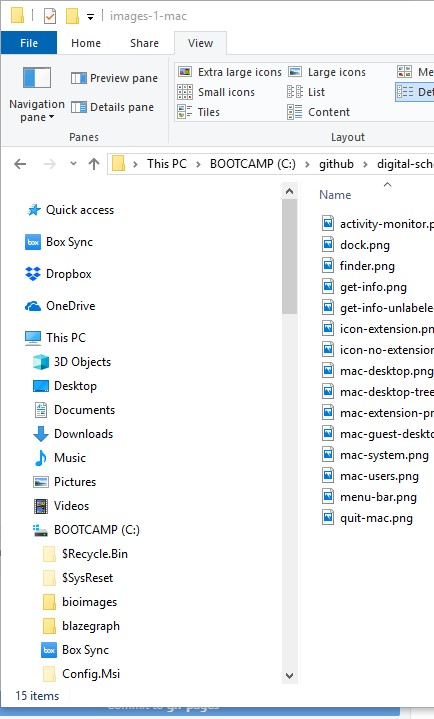
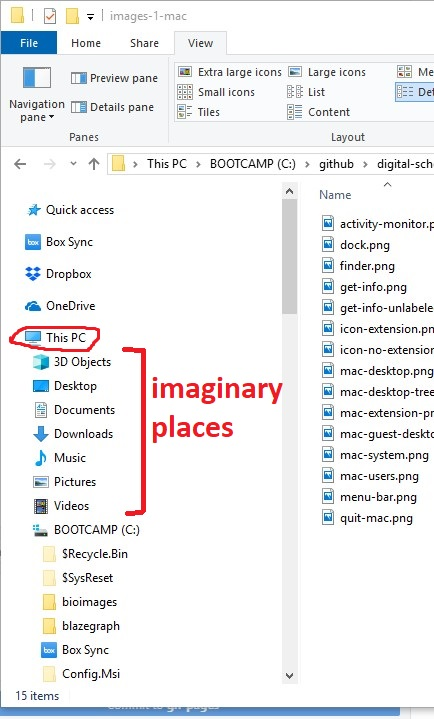
finish edits to windows directories lesson

Changed region(s): [[0.2696, 0.459, 0.659, 0.7344], [0.0, 0.4284, 0.2396, 0.4896], [0.0599, 0.3672, 0.0899, 0.3978]]

diff --git a/computer/directories-windows.md b/computer/directories-windows.md
@@ -111,89 +111,87 @@ Any of these items can be expanded or collapsed by clicking on the arrow to the 
 
 After you have gone down into deeper subdirectories of the directory tree, you can go back up the tree in two ways.  You can click the back button (left-facing arrow at the upper left) and it will return you to previous directories you have viewed.  You can also jump to any higher level in the path by single-clicking on a folder in the path bar.
 
-***********
-
 ## Exploring the entire directory tree
 
-<img src="../images-2-mac/finder-entire-directory-tree.png" style="border:1px solid black">
+<img src="../images-2-pc/navigate-to-documents.png" style="border:1px solid black">
 
-If you included your computer in the sidebar, click on it and select columns view.  If your computer isn't in the sidebar, drop down the Finder `Go` menu and select `Computer`. Starting on the level of your whole computer, you can dive down into the directory, starting with the root directory in your hard drive (probably named `macOS`), to the `users` directory, then to your home folder, and finally to your `Documents` folder.
+In File Explorer, make sure that the navigation pane is enabled and that you are using Details view.  Starting with `This PC`, dive deep into the directory tree.  Expand `This PC` if necessary, then the root directory your hard drive (probably named something but labeled as `C:`), to the `users` directory, then to your home folder, and finally to your `Documents` folder.
 
-<img src="../images-2-mac/documents-level.png" style="border:1px solid black">
+<img src="../images-2-pc/direct-to-documents.png" style="border:1px solid black">
 
-Now for contrast, click on the Documents favorite in the sidebar.  You will go directly to your Documents directory.  Although if you've enabled the Show Path Bar, you'll know where you are in the directory tree, and you can easily jump to a higher level than the one you chose from the sidebar Favorites by simply double-clicking on the higher level in the path bar.  This feature is useful if you start exploring at a low level in the directory tree but later realize that you need to jump up to a higher level.
+You should be able to see your path to the Documents folder in the Path box under the ribbon.
+
+Now for contrast, click on the Documents folder directly under `This PC`.  This will take you directly to your Documents directory.  You should see the same files that you saw when you navigated to your Documents directory through the C: drive.  If you look at the Path box, you'll see that Windows is continuing the charade of pretending that your Documents folder is directly connected to your computer separately from the directory tree.
 
 # Save file dialog
 
-As a relatively new Mac user, I was somewhat horrified to discover the large number of users who seem to mostly save documents to their desktop instead of in some organized place in the directory tree.  I think part of the reason for that is that they weren't aware of the features available in the `Save as...` (or `Save...`) dialog from the `File` menu.  Fortunately, that dialog has many of the same features as Finder, so understanding how to navigate Finder will also help you do understand how to use the `Save as...` dialog effectively.
+Novice computer users often don't start off having very many files on their computers.  So they tend to save all of their files on the Desktop or in the Documents folder.  However, after accumulating more files, it becomes important to save them in a more organized manner that probably involves creating some hierarchical directories.  
 
-<img src="../images-2-mac/unexpanded-save-as.png" style="border:1px solid black">
+The Save as... dialog has many of the same features as File Explorer, so understanding how to navigate File Explorer will also help you do understand how to use the `Save as...` dialog effectively.
 
-By default, the `Save as...` dialog is in its abbreviated form.  Dropping down the `Where` list will let you choose any location that normally appears on your Finder sidebar.  But to navigate to other locations, you need to click on the small down arrow to the right of the `Where` dropdown. 
+<img src="../images-2-pc/save-as.png" style="border:1px solid black">
 
-<img src="../images-2-mac/expanded-save-as.png" style="border:1px solid black">
+The `Save as...` dialog box allows you to navigate in a manner nearly identical to File Explorer.  To save space, the display style options are in a dropdown.  
 
-The expanded `Save as...` dialog box allows you to navigate in a manner nearly identical to Finder.  To save space, the display style options are in a dropdown.  You can create a new folder in the current directory if you want to develop the directory tree in a way that makes sense for storing the file.  You can also drop down the `Where` option to jump to a higher position in the directory tree.  
+<img src="../images-2-pc/save-as-view-options.png" style="border:1px solid black">
+
+You can create a new folder in the current directory by clicking on the `New folder` option in the upper left if you want to develop the directory tree in a way that makes sense for storing the file.  You can also click on the up arrow to the left of the path to move a level higher in the directory tree, or click on the path itself to move directly to a higher level.  
 
 # Copying and moving files
 
-A very important aspect of working with files in Finder is understanding the effect of drag-and-drop.  In some cases, dragging and droping a file or folder causes it to be moved to the new location (moving), while in other cases, it causes a copy of the file to be created in the nwe location (copying).  Whether drag-and-drop results in copying or moving depends primarily on the place where the file is dropped relative to its starting location.
+When used with the File explorer navigation pane, *click and drag* is an efficient way to move files around.  First, expand the directory tree in the navigation pane until you can click on the folder containing the file(s) you want to move.  Click on the folder.  Now scroll the navigation pane and expand the directory tree until you can see the folder where you want the file to go.  Just drag the file from the pane on the right to the folder in the navigation pane where you want it to go, and drop the file.
 
-<img src="../images-2-mac/move.png" style="border:1px solid black">
+A very important aspect of working with files in File Explorer is understanding the effect of drag-and-drop.  In some cases, dragging and droping a file or folder causes it to be moved to the new location (moving), while in other cases, it causes a copy of the file to be created in the nwe location (copying).  Whether drag-and-drop results in copying or moving depends primarily on the place where the file is dropped relative to its starting location.
 
-In the example above, I'm dragging and dropping a file from the `Documents` directory to a subdirectory of `Documents` called `output`.  Both directories are located on my hard drive (called `macOS` by default), so Finder assumes that I want to *move* the file.  
+<img src="../images-2-pc/drag-to-move.jpg" style="border:1px solid black">
 
-<img src="../images-2-mac/move-result.png" style="border:1px solid black">
+In the example above, I'm dragging and dropping a file from the `Documents` directory to a subdirectory of `Documents`.  Both directories are located on my hard drive C:, so File Explorer assumes that I want to *move* the file. There are two ways that I can know that the file will be moved rather than copied: under the icon that I'm dragging an arrow appears as well as the words "Move to".
+
+<img src="../images-2-pc/moved-file-is-missing.png" style="border:1px solid black">
 
 After I drop the file, I see that it has been moved to the new folder and is no longer in the old one.
 
-<img src="../images-2-mac/copy.png" style="border:1px solid black">
+<img src="../images-2-pc/drag-to-copy.jpg" style="border:1px solid black">
 
-In the second example, I'm dragging and dropping a file from my Documents folder to an external drive that I've connected to my system, called `oldbuffalo1`.  There are two ways I can see that Finder considers this to be a different drive rather than just a folder within my `macOS` drive.  To the left of the drive name, I see a little hard drive icon instead of a folder icon.  To the right of the drive name, I see an `eject` symbol that I should use when I want to remove the drive from the system.  Because I'm moving a file from one drive to another, Finder assumes that I want to *copy* the file.
+In the second example, I'm dragging and dropping a file from my Documents folder to an external drive that I've connected to my system, called `auxillary SSD`.  I can see that Finder considers this to be a different drive rather than just a folder within my `C:` drive.  To the left of the drive name, I see a little hard drive icon instead of a folder icon.  To the right of the drive name, I see the `H:` drive letter.  Because I'm moving a file from one drive to another, File Explorer assumes that I want to *copy* the file.
 
-This time, when I drag and drop, I see that a green circle with a plus sign inside it appears under the icon when I hover over the drive where I want to drop the file.  That means that the file I'm dragging will be added to the other drive as a copy.
+This time, when I drag and drop, I see a plus (`+`) sign under the icon that I'm dragging and also the words "Copy to".  That means that the file I'm dragging will be **added** to the other drive as a copy, not moved.
 
-<img src="../images-2-mac/copy-result.png" style="border:1px solid black">
+<img src="../images-2-pc/moved-file-still-there.png" style="border:1px solid black">
 
-Once I've dropped the file, I can see that Finder did indeed do a copy operation because the original file is still where it was before I did the drag and drop.
+Once I've dropped the file, I can see that Finder did indeed do a copy operation because the original file is still where it was before I did the drag and drop. 
 
-The plus sign appears regardless of the display style you've chosen for Finder.  
-
-The bottom line is that if you are ever unsure about whether you are copying or moving a file, **look to see whether there is a green plus sign**.
+The bottom line is that if you are ever unsure about whether you are copying or moving a file, **look to see whether there is an arrow or a plus sign under the icon** and notice whether it says "Move to" or "Copy to".
 
 ## Dropbox and Box
 
 Dropbox and Box are two common and similar systems used to synch local files on a computer with an analogous directory tree in the cloud.  You can use either system entirely by uploading and downloading files using a web interface, but it is far more convenient to set up folders in the cloud to by synched directly with directories on your local computer.  This section assumes that you have enabled this kind of synch to your local computer.
 
-<img src="../images-2-mac/box-copy.png" style="border:1px solid black">
+<img src="../images-2-pc/dropbox-and-box.png" style="border:1px solid black">
 
-A very confusing thing happens when I compare what happens when I drag and drop to a Dropbox folder and a Box folder.  When I drag and drop to a Box folder, I see the plus sign (indicating that I'm performing a copy), but when I drag and drop to a Dropbox folder, I don't see the plus sign (indicating that I'm performing a move).  
+When you install Dropbox or Box so that it will synch with your local computer, you will see the root folders for those services under the "Quick access" item in the navigation pane.  However, the actual folder will be somewhere else.  You can specify a location other than the default by right-clicking on their icons in the system tray at the lower right of the screen and accessing the settings or preferences.  On the computer above, the folders were set up as first-level directories under the C: drive.  
 
-<img src="../images-2-mac/box-as-drive.png" style="border:1px solid black">
-
-I can get to the bottom of this apparent contradiction by scrolling down my Finder sidebar to the Locations section.  I see that Box is listed there (with an eject symbol), but Dropbox is not.  This tells me that the two systems are set up to operate in different ways.  Box folders are considered to live in a sort of virtual external drive, while Dropbox folders are just considered to be a sort of magical "regular" folder located on my hard drive.  
-
-<img src="../images-2-mac/boxes-in-home.png" style="border:1px solid black">
-
-I can understand the true situation by clicking on my home folder.  I see that actually both the root Box folder and the root Dropbox folder are subdirectories of my home folder.  The difference between them is some feature of the way that the synch application is set up to keep those folders synched with the server in the cloud - the operating system just considers them to be regular directories, more or less.  Locating them in the user directory makes sense because different users of a computer might have different Box/Dropbox accounts and putting them in the user directory allows the operating system to distinguish between the different user accounts.
+Moving files into and out of subdirectories of the Box or Dropbox folders works just like moving files in and out of any other directories.  However, the software associated with the services will automatically mirror those actions in the parallel directory trees in the cloud.  The synch process does not happen instantaneously.  Depending on how big the files are and how many were moved, it could take seconds or even minutes for the synch process to complete.  You can hover over, or right click on the icons in the system try to see the status of the synch.
 
 ## Alternatives to drag and drop
 
-Dragging and dropping files is OK for moving single files, but selecting and moving/copying a particular set of files (or a large number of files) can be a bit unnerving.  Most people have probably had the experience of dropping files in the wrong place and struggling with how to undo the damage, particularly if a bunch if copied files get mixed in with a bunch of other files.  (A quick answer to the problem is to hold the `Command` key and press the `Z` key, which nearly always will undo the last action you've taken.)  The other issue we will deal with here is what to do if you actually want to copy (NOT move) files within a drive, or move (NOT copy) files between drives.
+Dragging and dropping files is OK for moving single files, but selecting and moving/copying a particular set of files (or a large number of files) can be a bit unnerving.  Most people have probably had the experience of dropping files in the wrong place and struggling with how to undo the damage, particularly if a bunch if copied files get mixed in with a bunch of other files.  (A quick answer to the problem is to hold the `Ctrl` key and press the `Z` key, which nearly always will undo the last action you've taken.)  The other issue we will deal with here is what to do if you actually want to copy (NOT move) files within a drive, or move (NOT copy) files between drives.
 
-The best way to handle this situation is to select the files you want to copy, then copy and paste them.  You can select files by clicking and dragging, but you can get better control using shift-click or command-click.  
+The best way to handle this situation is to select the files you want to move, either copy or cut them, then paste them where you want them to go.  Whether the files are copied or moved depends on whether you copy or cut them.
 
-To select a *range* of files in a list, click on the first file in the list, then hold down on the `shift` key and click on the final file in the list.  To select *particular* files, click on the first one, then hold down on the `command` key and click on each of the other files to select them (or click a second time to de-select them).  You can also hold on the `command` key, then press on the `A` key to select *all* of the files in a directory.  
+You can select files by clicking and dragging, but you can get better control using shift-click or command-click.  
 
-<img src="../images-2-mac/copy-items.png" style="border:1px solid black">
+To select a *range* of files in a list, click on the first file in the list, then hold down on the `shift` key and click on the final file in the list.  To select *particular* files, click on the first one, then hold down on the `Ctrl` key and click on each of the other files to select them (or click a second time to de-select them).  You can also hold on the `Ctrl` key, then press on the `A` key to select *all* of the files in a directory.  
 
-Once you have selected the set of files you want to copy, right-click on one of the files and select `Copy x Items` (where `x` is the number of items).  Alternatively, you can select `Copy x Items` from the Edit menu.
+<img src="../images-2-pc/copy-items.jpg" style="border:1px solid black">
 
-To **copy** the files, click on or in the directory where you want the files to be copied to, then right-click and select `Paste x Items` (or select `Paste x Items` from the Edit menu).  The files you selected should be copied (not moved) to the new folder. The sortcut for this action is holding on the `command` key, then pressing the `V` key.
+Once you have selected the set of files you want to **copy**, right-click on one of the files and select `Copy`.  Alternatively, you can select `Copy` from the Home ribbon.  The sortcut for this action is holding on the `Ctrl` key, then pressing the `C` key.
 
-To **move** the selected files to the new location instead of copying them, select and copy the files you want to move as described above, then click in the folder where you want them to go.  Hold down on the `command` and `option` keys at the same time, then press the `V` key.  (On a PC external keyboard, press the `command` key that looks like a window and the `alt` key at the same time, then press the `V` key.)
+Alternatively, if you want to **move** the files instead of copying them, right-click on one of the files and select `Cut`.  Alternatively, you can select `Cut` from the Home ribbon.  The sortcut for this action is holding on the `Ctrl` key, then pressing the `X` key.
 
-Note: using the copy and paste method distinguishes between moving and copying **solely based on how you do the paste**.  It does not depend on whether the operation is done within or between drives.  
+Regardless of whether you chose copy or cut, click on or in the directory where you want the files to go, then right-click and select `Paste` (or select `Paste` from the Edit menu).  The sortcut for this action is holding on the `Ctrl` key, then pressing the `V` key.
+
+Note: using the copy/cut and paste method distinguishes between moving and copying **solely based on whether you choose copy or cut**.  It does not depend on whether the operation is done within or between drives.  
 
 [go on to Lesson 3: Installing software](../installation-windows/)
 
